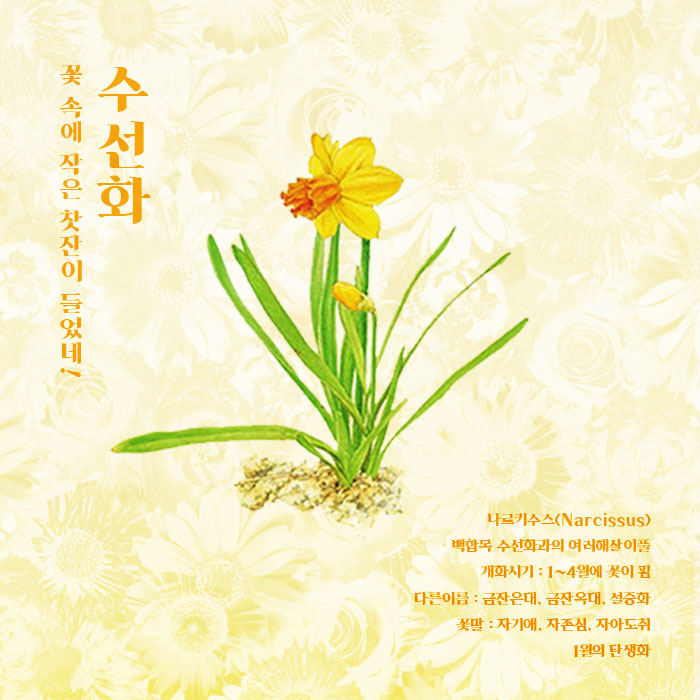
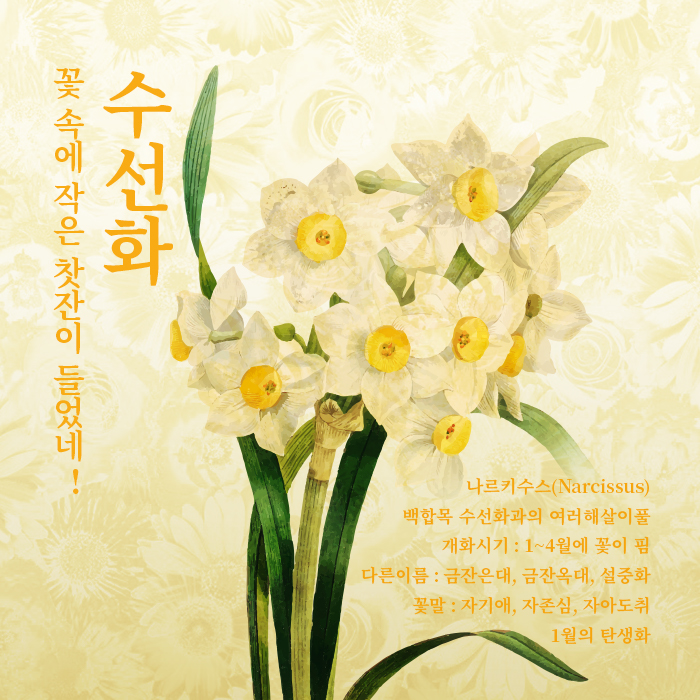
수선화 메인이미지 교체
저작권 이슈로 수선화 메인이미지 교체함

diff --git a/cardnews/index_16.html b/cardnews/index_16.html
@@ -13,8 +13,8 @@
         <div id="fullscreen"></div>
         <div id="galleria">
             <img 
-                src="images/16/16_01.jpg",
-                data-big="images/16/16_01.jpg"
+                src="images/16/16_01.jpg?t=1",
+                data-big="images/16/16_01.jpg?t=1"
                 data-title=""
                 data-description=""
             >
